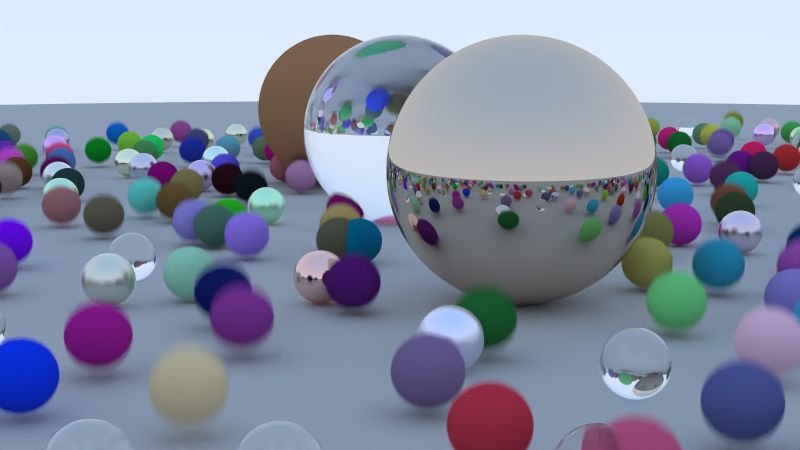
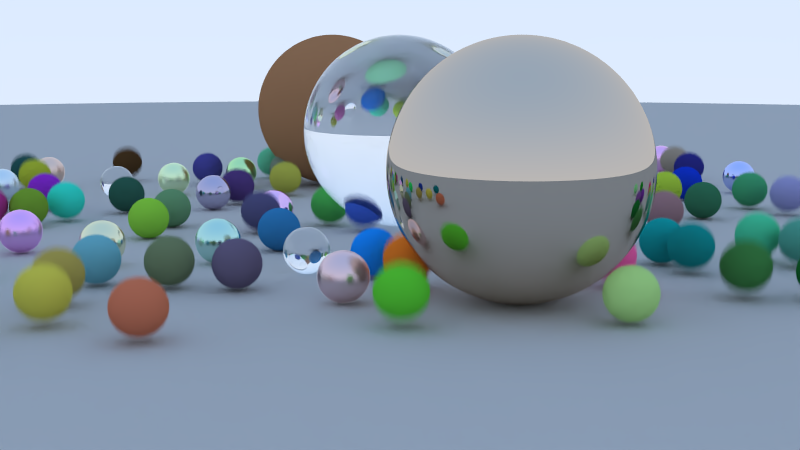
4.2 adding texture support, polar coords for sphere

diff --git a/material.h b/material.h
@@ -1,20 +1,22 @@
 #pragma once
 
 #include "rtweekend.h"
+#include "texture.h"
 
 struct hit_record;
 
 class material
 {
 public:
-	virtual color get_albedo() const = 0;
+	virtual color get_albedo(float u, float v, const point3& p) const = 0;
 	virtual bool scatter(const ray& r_in, const hit_record& rec, color& attenuation, ray& scattered) const = 0;
 };
 
 class lambertian : public material
 {
 public:
-	lambertian(const color& a) : albedo(a) {}
+	lambertian(const color& a) : albedo(make_shared<solid_color>(a)) {}
+	lambertian(const shared_ptr<texture>& a) : albedo(a) {}
 
 	virtual bool scatter(const ray& r_in, const hit_record& rec, color& attenuation, ray& scattered) const override
 	{
@@ -25,13 +27,13 @@ public:
 			scatter_direction = rec.normal;
 
 		scattered = ray(rec.p, scatter_direction, r_in.time);
-		attenuation = albedo;
+		attenuation = albedo->value(rec.u, rec.v, rec.p);
 		return true;
 	}
 
-	virtual color get_albedo() const override { return albedo; }
+	virtual color get_albedo(float u, float v, const point3& p) const override { return albedo->value(u, v, p); }
 
-	color albedo;
+	shared_ptr<texture> albedo;
 };
 
 class metal : public material
@@ -47,7 +49,7 @@ public:
 		return dot(scattered.dir, rec.normal) > 0;
 	}
 
-	virtual color get_albedo() const override { return albedo; }
+	virtual color get_albedo(float u, float v, const point3& p) const override { return albedo; }
 
 	color albedo;
 	float fuzz;
@@ -76,7 +78,7 @@ public:
 		return true;
 	}
 
-	virtual color get_albedo() const override { return color(1,1,1); }
+	virtual color get_albedo(float u, float v, const point3& p) const override { return color(1,1,1); }
 
 	float ir; // index of refraction
 

diff --git a/sphere.h b/sphere.h
@@ -16,6 +16,23 @@ public:
 	point3 center;
 	float radius;
 	shared_ptr<material> mat_ptr;
+
+private:
+	static void get_sphere_uv(const point3& p, float& u, float& v)
+	{
+		// p: a given point on the sphere of radius one, centered at the origin.
+		// u: returned value [0,1] of angle around the Y axis from X=-1.
+		// v: returned value [0,1] of angle from Y=-1 to Y=+1.
+		//     <1 0 0> yields <0.50 0.50>       <-1  0  0> yields <0.00 0.50>
+		//     <0 1 0> yields <0.50 1.00>       < 0 -1  0> yields <0.50 0.00>
+		//     <0 0 1> yields <0.25 0.50>       < 0  0 -1> yields <0.75 0.50>
+
+		const auto theta = acos(-p.y);
+		const auto phi = atan2(-p.z, p.x) + pi;
+
+		u = phi / (2*pi);
+		v = theta / pi;
+	}
 };
 
 bool sphere::hit(const ray& r, float t_min, float t_max, hit_record& rec) const
@@ -44,6 +61,7 @@ bool sphere::hit(const ray& r, float t_min, float t_max, hit_record& rec) const
 	rec.p = r.at(rec.t);
 	const vec3 outward_normal = (rec.p - center) / radius;
 	rec.set_face_normal(r, outward_normal);
+	get_sphere_uv(outward_normal, rec.u, rec.v);
 	rec.mat_ptr = mat_ptr;
 	return true;
 }

diff --git a/main.cpp b/main.cpp
@@ -26,7 +26,7 @@ color ray_albedo(const ray& r, const hittable& world)
 	hit_record rec;
 	if (world.hit(r, 0.001, infinity, rec))
 	{
-		return rec.mat_ptr->get_albedo();
+		return rec.mat_ptr->get_albedo(rec.u, rec.v, rec.p);
 	}
 
 	return ray_world_albedo(r);
@@ -65,8 +65,8 @@ hittable_list random_scene()
 	const auto mat_metal = make_shared<metal>(color(0.7, 0.6, 0.5), 0.0);
 	world.add(make_shared<sphere>(point3(4, 1, 0), 1.0, mat_metal));
 
-	for(int a = -11; a < 11; a++) {
-		for(int b = -11; b < 11; b++) {
+	for(int a = -5; a < 5; a++) {
+		for(int b = -5; b < 5; b++) {
 			const auto choose_mat = random_float();
 			point3 center(a + 0.9*random_float(), 0.2, b + 0.9*random_float());
 			if ((center - point3(4, 0.2, 0)).length() > 0.9) {

diff --git a/texture.h b/texture.h
@@ -1,0 +1,21 @@
+#pragma once
+
+#include "rtweekend.h"
+
+class texture
+{
+public:
+	virtual color value(float u, float v, const point3& p) const = 0;
+};
+
+class solid_color : public texture
+{
+public:
+	solid_color() {}
+	solid_color(color c) : color_value(c) {}
+	solid_color(float red, float green, float blue) : color_value(red, green, blue) {}
+
+	virtual color value(float u, float v, const point3& p) const override { return color_value; }
+
+	color color_value;
+};

diff --git a/hittable.h b/hittable.h
@@ -10,7 +10,7 @@ struct hit_record
 	point3 p;
 	vec3 normal;
 	shared_ptr<material> mat_ptr;
-	float t;
+	float t, u, v;
 	bool front_face;
 
 	inline void set_face_normal(const ray& r, const vec3& outward_normal)
